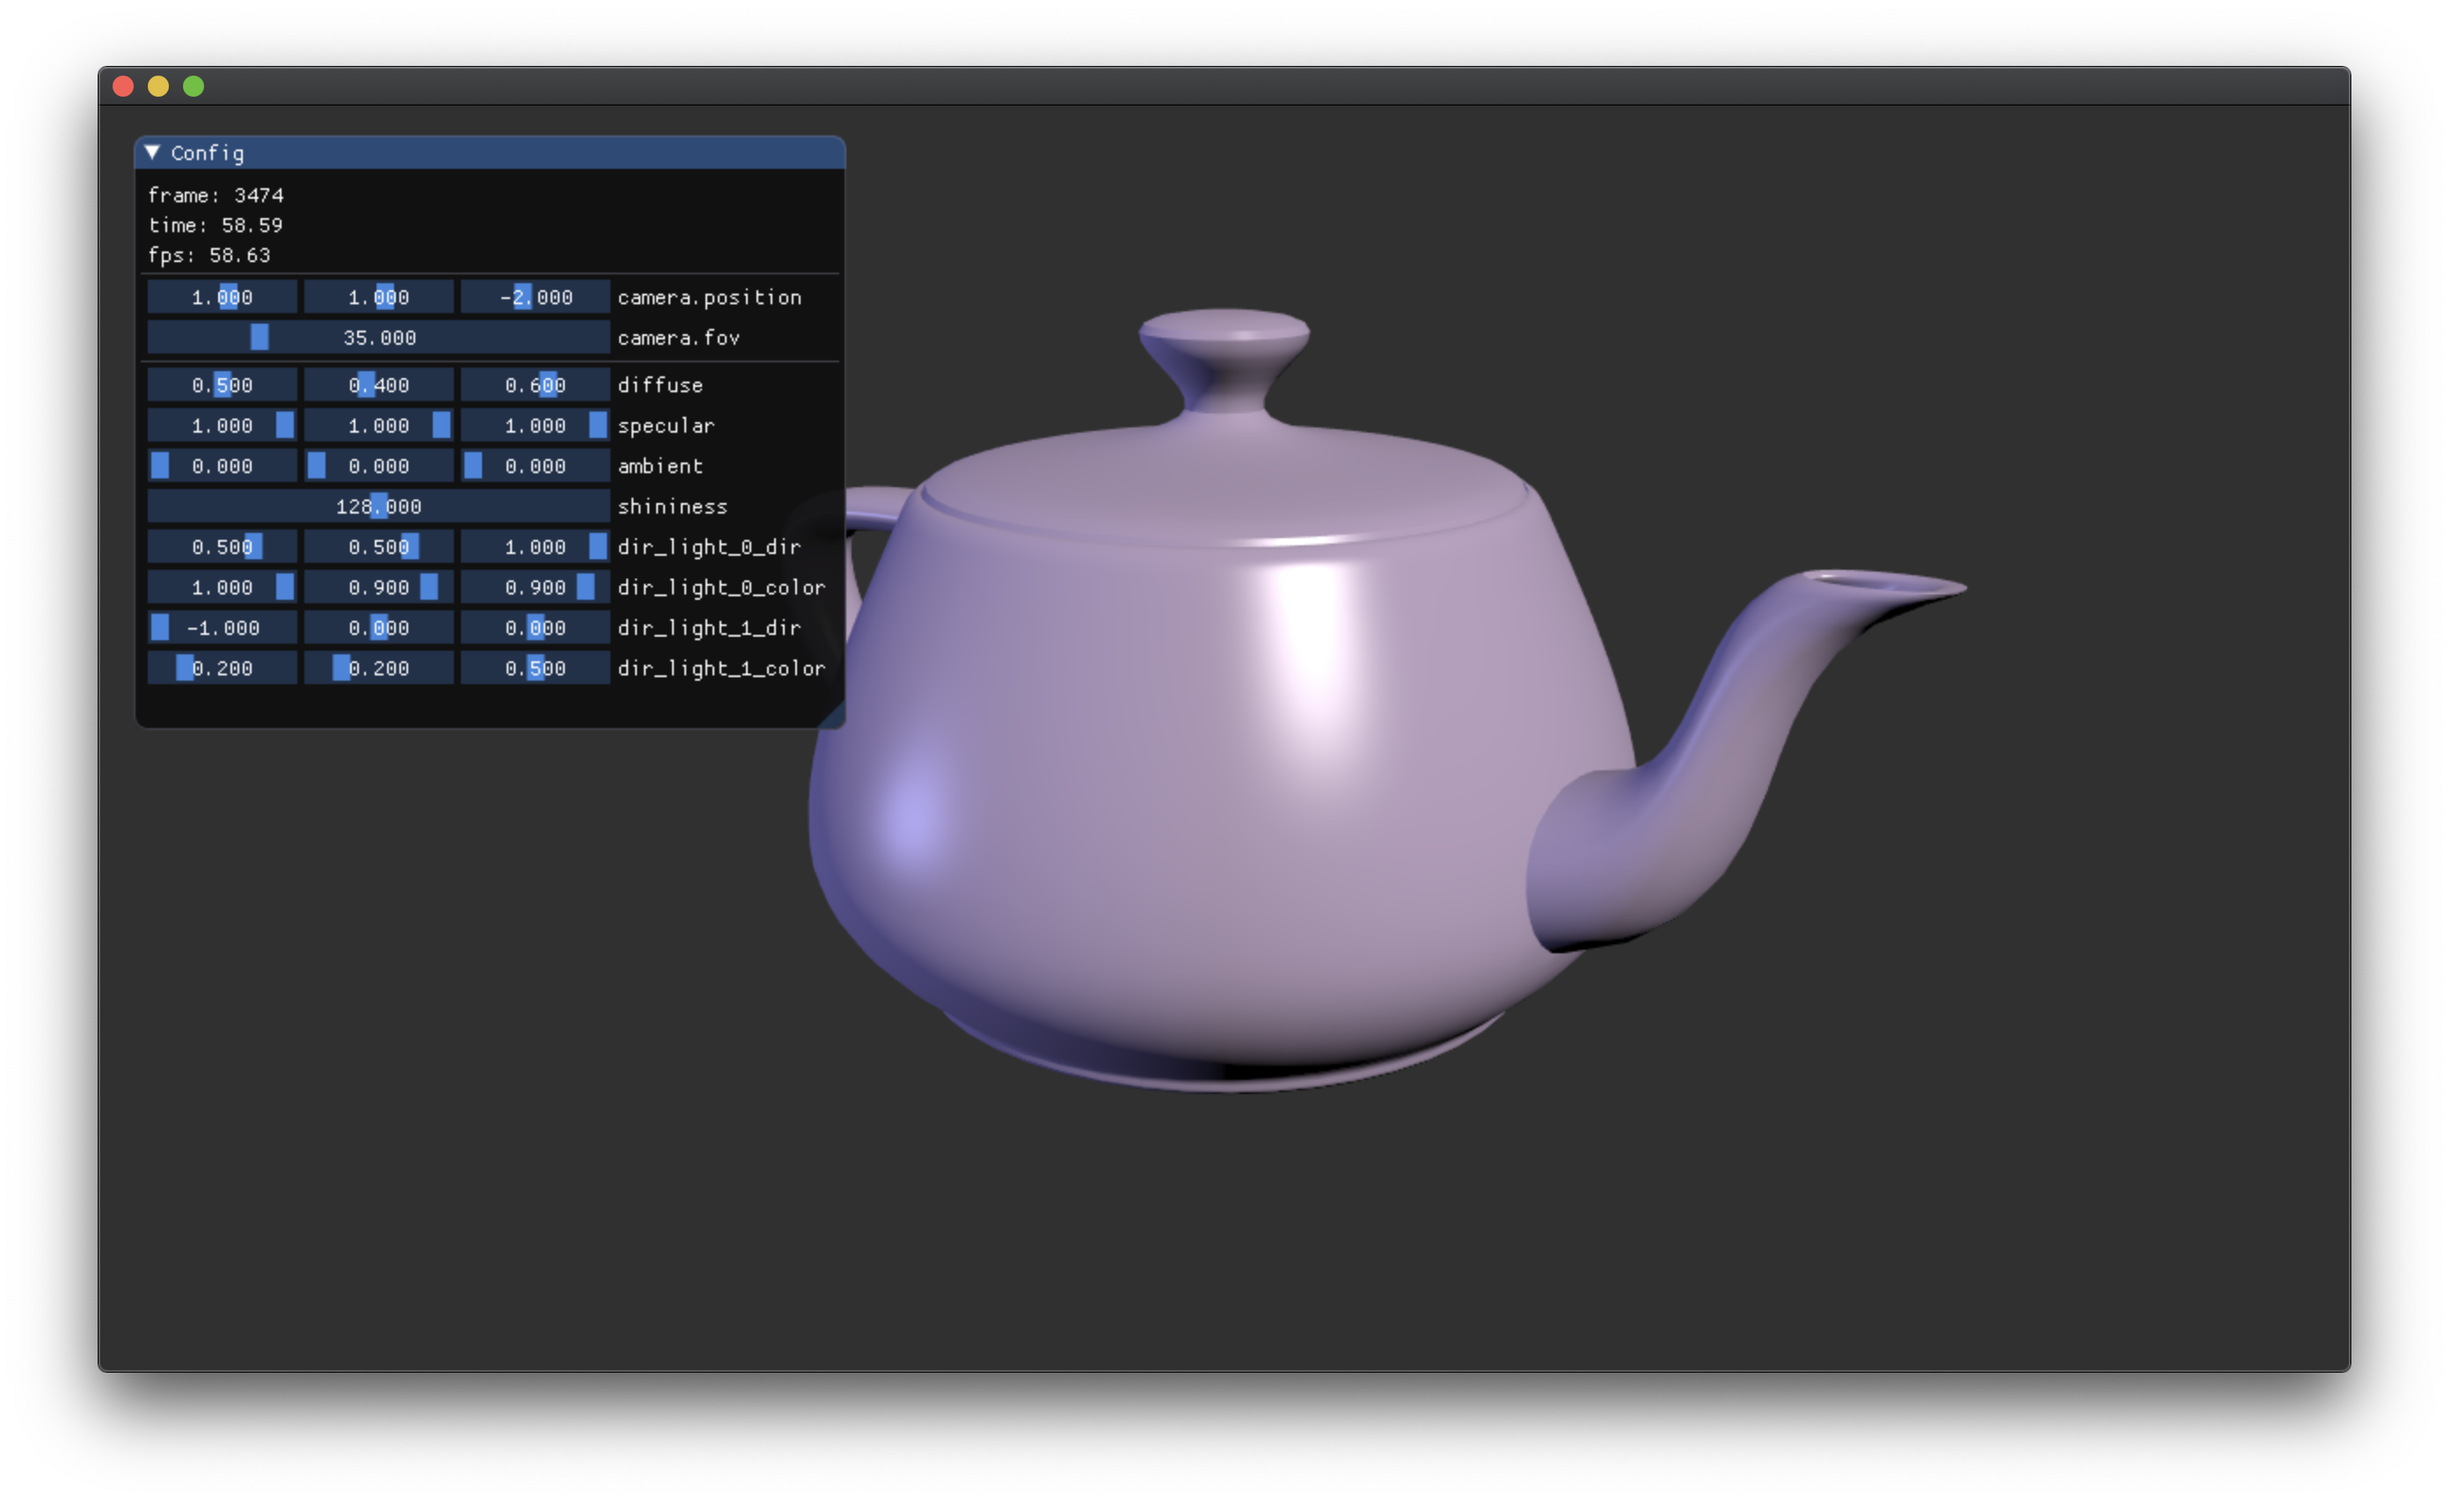
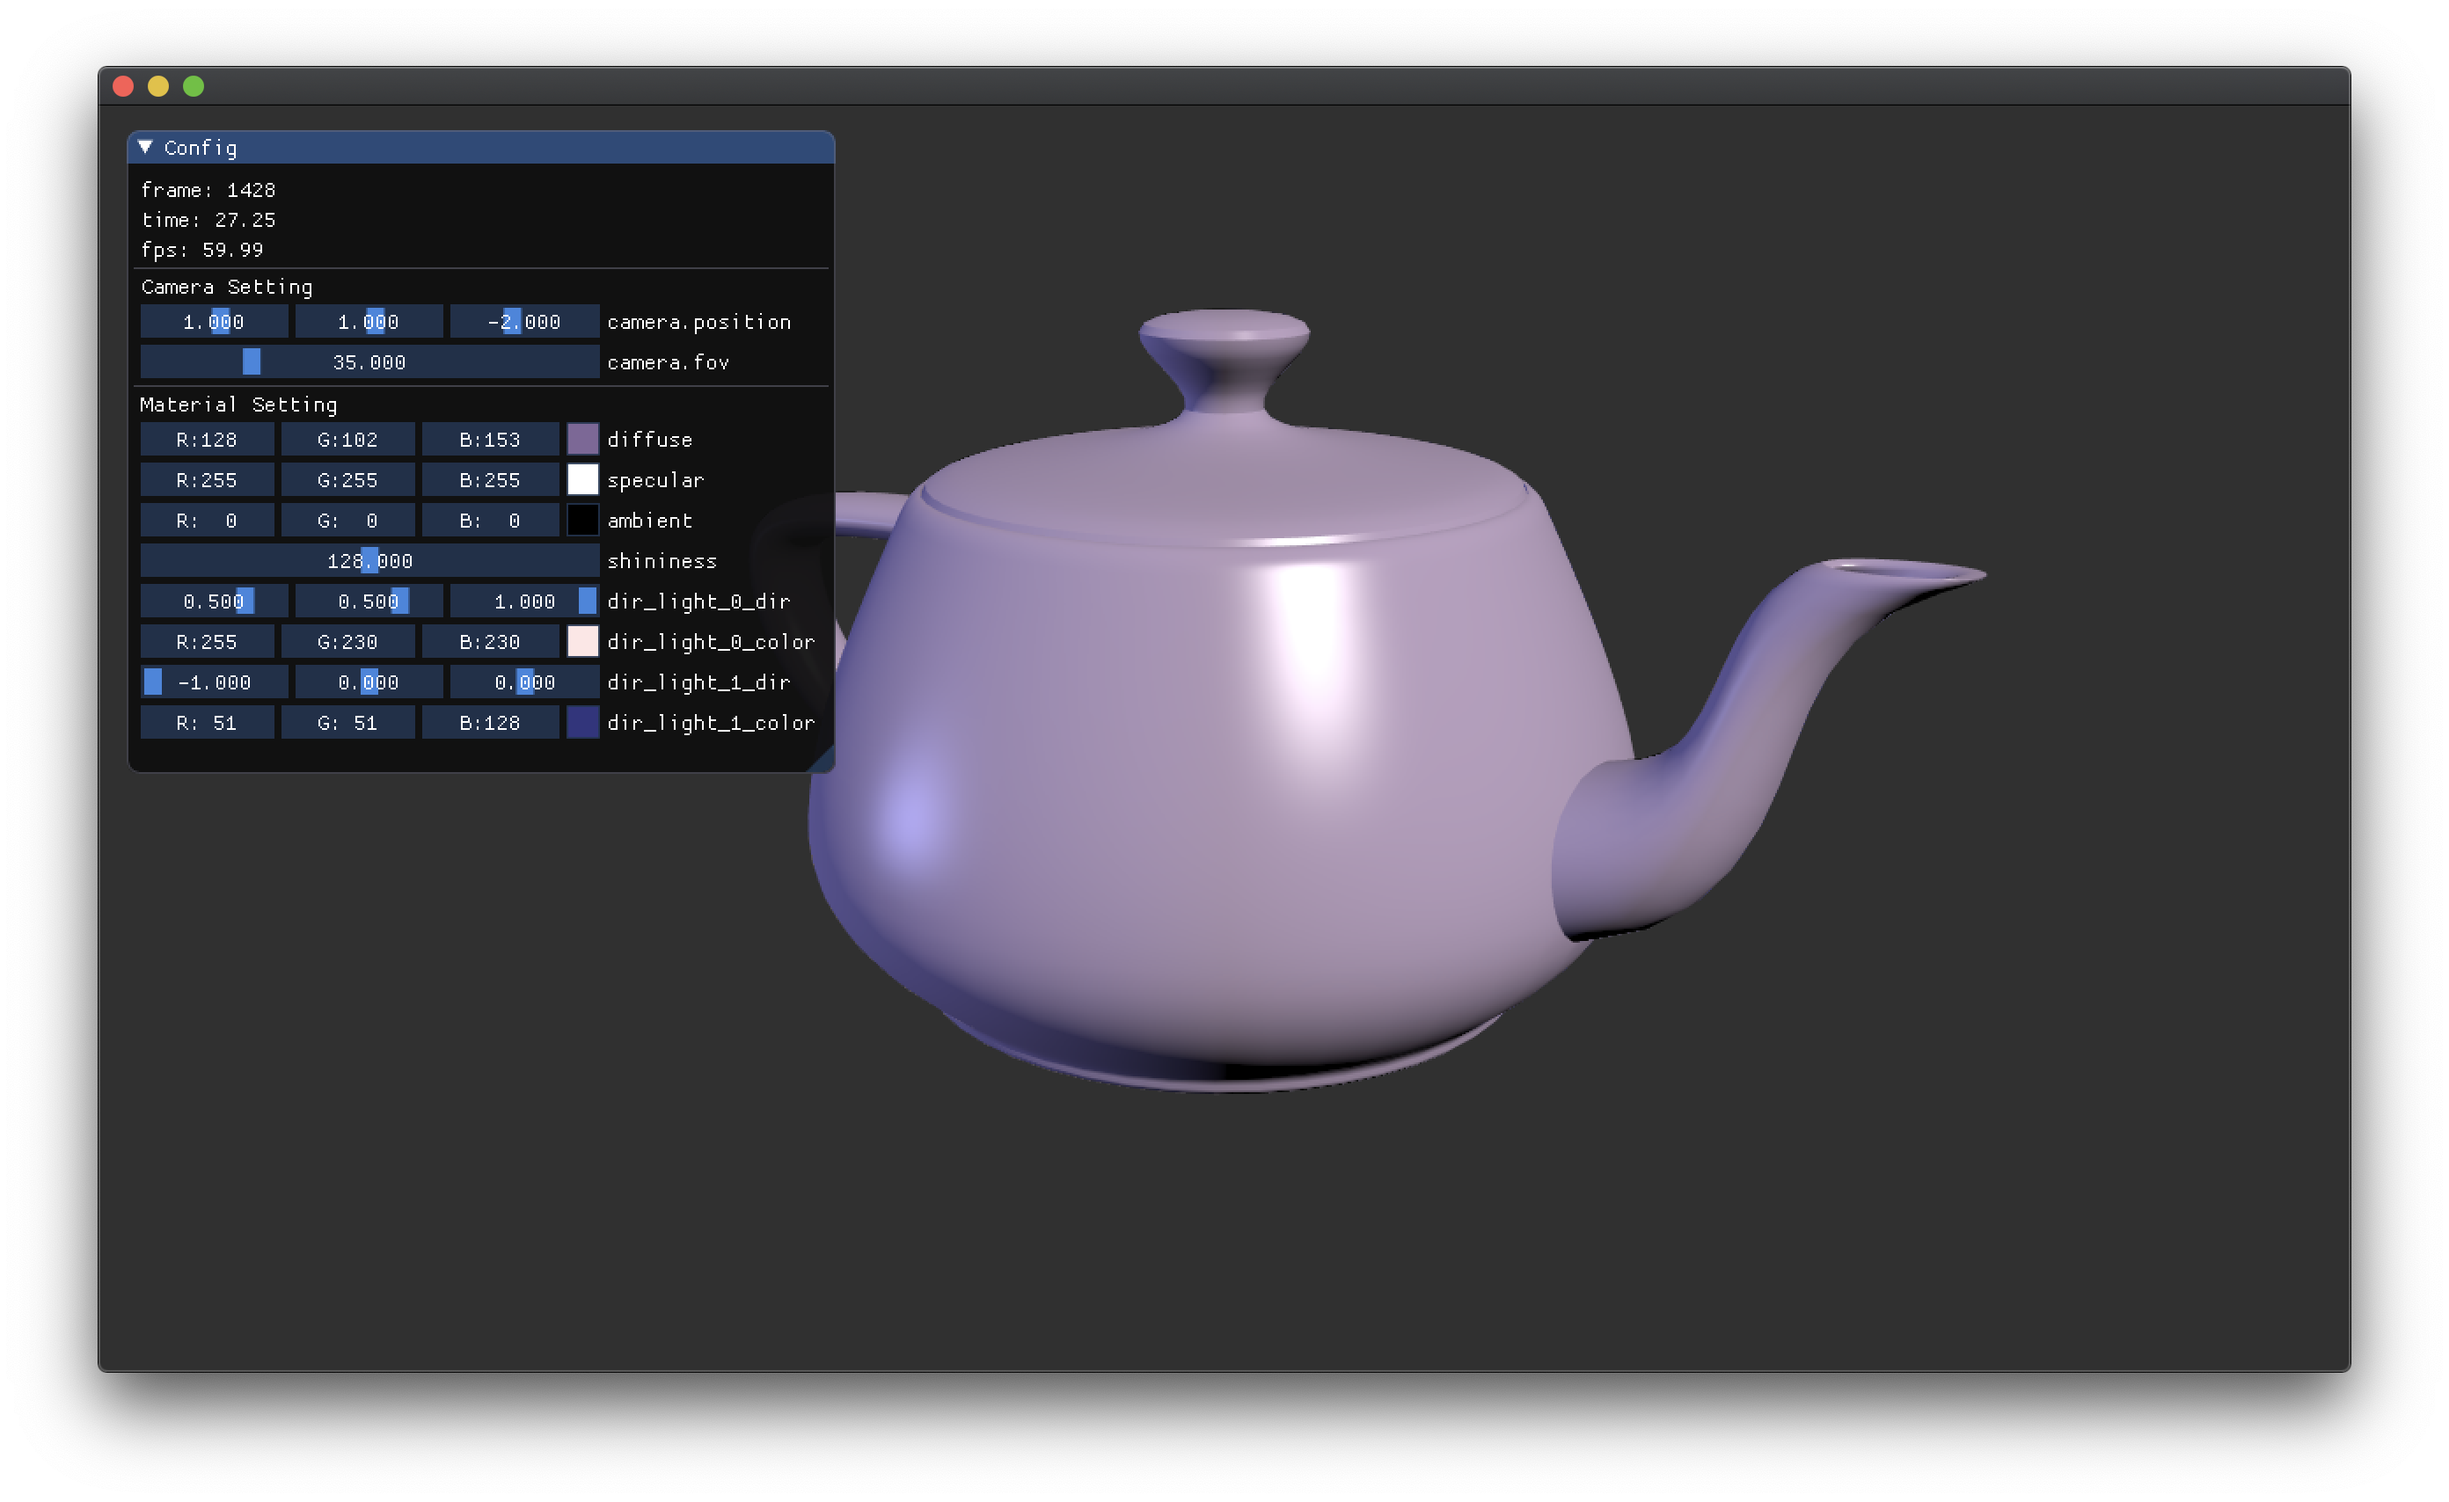
Improve ImGui use

diff --git a/include/bigger/materials/blinnphong-material.hpp b/include/bigger/materials/blinnphong-material.hpp
@@ -45,14 +45,15 @@ namespace bigger
 
         void drawImgui() override
         {
-            ImGui::SliderFloat3("diffuse", glm::value_ptr(u_diffuse), 0.0f, 1.0f);
-            ImGui::SliderFloat3("specular", glm::value_ptr(u_specular), 0.0f, 1.0f);
-            ImGui::SliderFloat3("ambient", glm::value_ptr(u_ambient), 0.0f, 1.0f);
-            ImGui::SliderFloat("shininess", &u_shininess, 0.1f, 256.0f);
+            ImGui::Text("Material Setting");
+            ImGui::ColorEdit3("diffuse", glm::value_ptr(u_diffuse));
+            ImGui::ColorEdit3("specular", glm::value_ptr(u_specular));
+            ImGui::ColorEdit3("ambient", glm::value_ptr(u_ambient));
+            ImGui::SliderFloat("shininess", &u_shininess, 0.5f, 256.0f);
             ImGui::SliderFloat3("dir_light_0_dir", glm::value_ptr(u_dir_lights[0].dir), -1.0f, 1.0f);
-            ImGui::SliderFloat3("dir_light_0_color", glm::value_ptr(u_dir_lights[0].color), 0.0f, 1.0f);
+            ImGui::ColorEdit3("dir_light_0_color", glm::value_ptr(u_dir_lights[0].color));
             ImGui::SliderFloat3("dir_light_1_dir", glm::value_ptr(u_dir_lights[1].dir), -1.0f, 1.0f);
-            ImGui::SliderFloat3("dir_light_1_color", glm::value_ptr(u_dir_lights[1].color), 0.0f, 1.0f);
+            ImGui::ColorEdit3("dir_light_1_color", glm::value_ptr(u_dir_lights[1].color));
         }
 
         glm::vec3 u_diffuse   = glm::vec3(0.5f, 0.4f, 0.6f);

diff --git a/examples/cubes/main.cpp b/examples/cubes/main.cpp
@@ -124,6 +124,7 @@ void CubesApp::updateApp()
         ImGui::Text("time: %.2f", m_time);
         ImGui::Text("fps: %.2f", 1.0f / m_last_dt);
         ImGui::Separator();
+        ImGui::Text("Camera Setting");
         ImGui::SliderFloat3("camera.position", glm::value_ptr(getCamera().m_position), -10.0f, 10.0f);
         ImGui::SliderFloat("camera.fov", &(getCamera().m_fov), 10.0f, 120.0f);
         ImGui::Separator();

diff --git a/examples/mesh/main.cpp b/examples/mesh/main.cpp
@@ -97,6 +97,7 @@ void MeshApp::updateApp()
         ImGui::Text("time: %.2f", m_time);
         ImGui::Text("fps: %.2f", 1.0f / m_last_dt);
         ImGui::Separator();
+        ImGui::Text("Camera Setting");
         ImGui::SliderFloat3("camera.position", glm::value_ptr(getCamera().m_position), -10.0f, 10.0f);
         ImGui::SliderFloat("camera.fov", &(getCamera().m_fov), 10.0f, 120.0f);
         ImGui::Separator();
